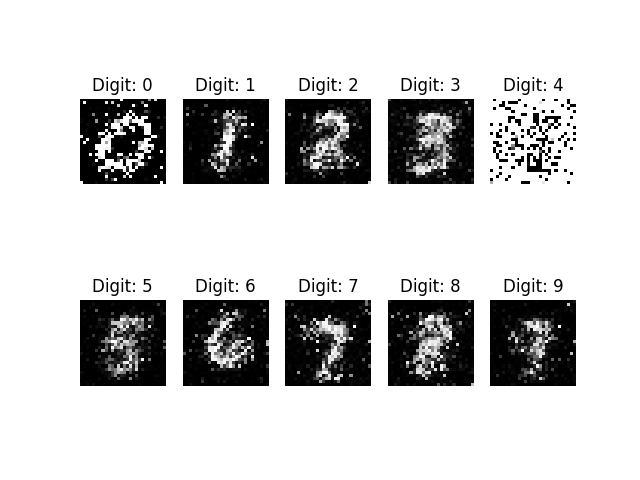
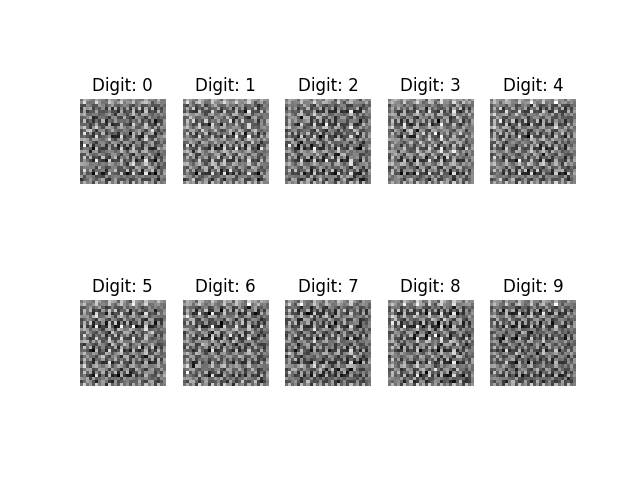
[FIX] tensorflow cggan discriminator, generator based cgan

Changed region(s): [[0.125, 0.1875, 0.9062, 0.4062], [0.125, 0.625, 0.9062, 0.8125]]

diff --git a/cgan/model.py b/cgan/model.py
@@ -16,49 +16,34 @@ BATCH_SIZE = 256
 class_num = 10
 
 def generator(output_shape=(28,28,1), class_num=class_num, stddev=0.2, z_dim=noise_dim):
-    # noise_input = Input(shape=(z_dim,))
-    # label_input = Input(shape=(1,))
-    # label_embedding = Embedding(class_num, z_dim)(label_input)
-    # label_embedding = Flatten()(label_embedding)
-
-    # model_input = Multiply()([noise_input, label_embedding])
+    noise_input = Input(shape=(z_dim,))
+    label_input = Input(shape=(1,))
+    y = Embedding(1, [class_num, z_dim])(label_input)
+    y = Flatten()(y)
+    model_input = Concatenate()([noise_input, y])
     
-    # z = Dense(1024,kernel_initializer=tf.random_normal_initializer(stddev=stddev))(model_input)
-    # z = BatchNormalization()(z)
-    # z = ReLU()(z)
-    # z = Dense(128*7*7,kernel_initializer=tf.random_normal_initializer(stddev=stddev))(z)
-    # z = BatchNormalization()(z)
-    # z = ReLU()(z)
-    # z = Reshape([7,7,128])(z)
-    # z = Conv2DTranspose(64, (4,4), (2,2),padding='same',kernel_initializer=tf.random_normal_initializer(stddev=stddev))(z)
-    # z = BatchNormalization()(z)
-    # z = ReLU()(z)
-    # out = Conv2DTranspose(1, (4,4), (2,2),padding='same',kernel_initializer=tf.random_normal_initializer(stddev=stddev))(z)
-    model = Sequential()
+    model = tf.keras.Sequential()
+    model.add(layers.Dense(7*7*256, use_bias=False))
+    model.add(layers.BatchNormalization())
+    model.add(layers.LeakyReLU())
 
-    model.add(Dense(256, input_dim=z_dim))
-    model.add(LeakyReLU(alpha=0.2))
-    model.add(BatchNormalization(momentum=0.8))
-    model.add(Dense(512))
-    model.add(LeakyReLU(alpha=0.2))
-    model.add(BatchNormalization(momentum=0.8))
-    model.add(Dense(1024))
-    model.add(LeakyReLU(alpha=0.2))
-    model.add(BatchNormalization(momentum=0.8))
-    model.add(Dense(np.prod(output_shape), activation='tanh'))
-    model.add(Reshape(output_shape))
+    model.add(layers.Reshape((7, 7, 256)))
+    assert model.output_shape == (None, 7, 7, 256) # 주목: 배치사이즈로 None이 주어집니다.
 
-    # model.summary()
+    model.add(layers.Conv2DTranspose(128, (5, 5), strides=(1, 1), padding='same', use_bias=False))
+    assert model.output_shape == (None, 7, 7, 128)
+    model.add(layers.BatchNormalization())
+    model.add(layers.LeakyReLU())
 
-    noise = Input(shape=(z_dim,))
-    label = Input(shape=(1,), dtype='int32')
-    label_embedding = Flatten()(Embedding(class_num, z_dim)(label))
+    model.add(layers.Conv2DTranspose(64, (5, 5), strides=(2, 2), padding='same', use_bias=False))
+    assert model.output_shape == (None, 14, 14, 64)
+    model.add(layers.BatchNormalization())
+    model.add(layers.LeakyReLU())
 
-    model_input = multiply([noise, label_embedding])
-    img = model(model_input)
+    model.add(layers.Conv2DTranspose(1, (5, 5), strides=(2, 2), padding='same', use_bias=False, activation='tanh'))
+    assert model.output_shape == (None, 28, 28, 1)
 
-    return Model([noise, label], img)
-    return Model(inputs=[noise_input, label_input], outputs=out)
+    return Model(inputs=[noise_input, label_input], outs=model)
 
     
 
@@ -68,50 +53,26 @@ def discriminator(input_shape=(28,28,1), class_num=class_num, stddev=0.2):
     image_input = Input(shape=input_shape)
     reshaped_image = Flatten()(image_input)
 
-    # label_input = Input(shape=(1,))
-    # label_embedding = Embedding(class_num, np.prod(input_shape))(label_input)
-    # label_embedding = Flatten()(label_embedding)
-    # y = Multiply()([reshaped_image, label_embedding])
+    label_input = Input(shape=(1,))
+    y = Embedding(1, [class_num, z_dim])(label_input)
+    y = Flatten()(y)
+    y = Concatenate()([reshaped_image, y])
     
-    # y = Reshape(input_shape)(y)
-    # z = Conv2D(64,(4,4),(2,2),padding='same',kernel_initializer=tf.random_normal_initializer(stddev=stddev))(y)
-    # z = ReLU(negative_slope=0.2)(z)
-    # z = Conv2D(128,(4,4),(2,2),padding='same',kernel_initializer=tf.random_normal_initializer(stddev=stddev))(z)
-    # z = BatchNormalization()(z)
-    # z = ReLU(negative_slope=0.2)(z)
-    # z = Flatten()(z)
-    # z = Dense(1024,kernel_initializer=tf.random_normal_initializer(stddev=stddev))(z)
-    # z = BatchNormalization()(z)
-    # logit = ReLU(negative_slope=0.2)(z)
-    # out = Dense(1,activation='sigmoid',kernel_initializer=tf.random_normal_initializer(stddev=stddev))(logit)
+    model = tf.keras.Sequential()
+    model.add(layers.Conv2D(64, (5, 5), strides=(2, 2), padding='same',
+                                     input_shape=[28, 28, 1]))
+    model.add(layers.LeakyReLU())
+    model.add(layers.Dropout(0.3))
+
+    model.add(layers.Conv2D(128, (5, 5), strides=(2, 2), padding='same'))
+    model.add(layers.LeakyReLU())
+    model.add(layers.Dropout(0.3))
+
+    model.add(layers.Flatten())
+    model.add(layers.Dense(1))
+
     
-    model = Sequential()
-
-    model.add(Dense(512, input_dim=np.prod(input_shape)))
-    model.add(LeakyReLU(alpha=0.2))
-    model.add(Dense(512))
-    model.add(LeakyReLU(alpha=0.2))
-    model.add(Dropout(0.4))
-    model.add(Dense(512))
-    model.add(LeakyReLU(alpha=0.2))
-    model.add(Dropout(0.4))
-    model.add(Dense(1, activation='sigmoid'))
-    model.summary()
-
-    img = Input(shape=input_shape)
-    label = Input(shape=(1,), dtype='int32')
-
-    label_embedding = Flatten()(Embedding(class_num, np.prod(input_shape))(label))
-    flat_img = Flatten()(img)
-
-    model_input = multiply([flat_img, label_embedding])
-
-    validity = model(model_input)
-
-    return Model([img, label], validity)
-    
-    
-    return Model(inputs=[image_input, label_input], outputs=out)
+    return Model(inputs=[image_input, label_input], outs=model)
 
 
 
@@ -122,16 +83,7 @@ if __name__ == "__main__":
         
     generator = generator()
     discriminator = discriminator()
-    # cross_entropy = tf.keras.losses.BinaryCrossentropy(from_logits=True)
 
-    # def discriminator_loss(real_output, fake_output):
-    #     real_loss = cross_entropy(tf.ones_like(real_output), real_output)
-    #     fake_loss = cross_entropy(tf.zeros_like(fake_output), fake_output)
-    #     total_loss = real_loss + fake_loss
-    #     return total_loss
-
-    # def generator_loss(fake_output):
-    #     return cross_entropy(tf.ones_like(fake_output), fake_output)
 
     generator_optimizer = tf.keras.optimizers.Adam(0.0002*5, 0.5)
     discriminator_optimizer = tf.keras.optimizers.Adam(0.0002, 0.5)
@@ -156,32 +108,7 @@ if __name__ == "__main__":
     
     (train_images, train_labels), (_, _) = tf.keras.datasets.mnist.load_data()
 
-    # 이 시드를 시간이 지나도 재활용하겠습니다. 
-    # (GIF 애니메이션에서 진전 내용을 시각화하는데 쉽기 때문입니다.) 
-    # seed = tf.random.normal([num_examples_to_generate, noise_dim])
-    
-    # `tf.function`이 어떻게 사용되는지 주목해 주세요.
-    # 이 데코레이터는 함수를 "컴파일"합니다.
-    # @tf.function
-    # def train_step(images, labels, epoch):
-        # noise = tf.random.normal([images.shape[0], noise_dim])
-        
-    
-        # tf.print (f"{epoch} [D loss: {d_loss[0]}, acc.: {100*d_loss[1]}] [G loss: {g_loss}]")
 
-        
-        # with tf.GradientTape() as gen_tape, tf.GradientTape() as disc_tape:
-        #     generated_images = generator([noise, labels], training=True)
-            
-        #     real_output = discriminator([tf.reshape(images,(images.shape[0],28,28,1)), labels], training=True)
-        #     fake_output = discriminator([generated_images, labels], training=True)
-        #     gen_loss = generator_loss(fake_output)
-        #     disc_loss = discriminator_loss(real_output, fake_output)
-        #     gradients_of_generator = gen_tape.gradient(gen_loss, generator.trainable_variables)
-        #     gradients_of_discriminator = disc_tape.gradient(disc_loss, discriminator.trainable_variables)
-
-        #     generator_optimizer.apply_gradients(zip(gradients_of_generator, generator.trainable_variables))
-        #     discriminator_optimizer.apply_gradients(zip(gradients_of_discriminator, discriminator.trainable_variables))
 
     def generate_and_save_images(model, epoch, test_input):
         # `training`이 False로 맞춰진 것을 주목하세요.
@@ -263,7 +190,8 @@ if __name__ == "__main__":
         #                         epochs,
         #                         seed)
         sample_images(generator, epochs)
-
+    generator.summary()
+    
     train_images = (train_images - 127.5) / 127.5 # 이미지를 [-1, 1]로 정규화합니다.
     BUFFER_SIZE = 60000
     perm = np.random.permutation(train_images.shape[0])
